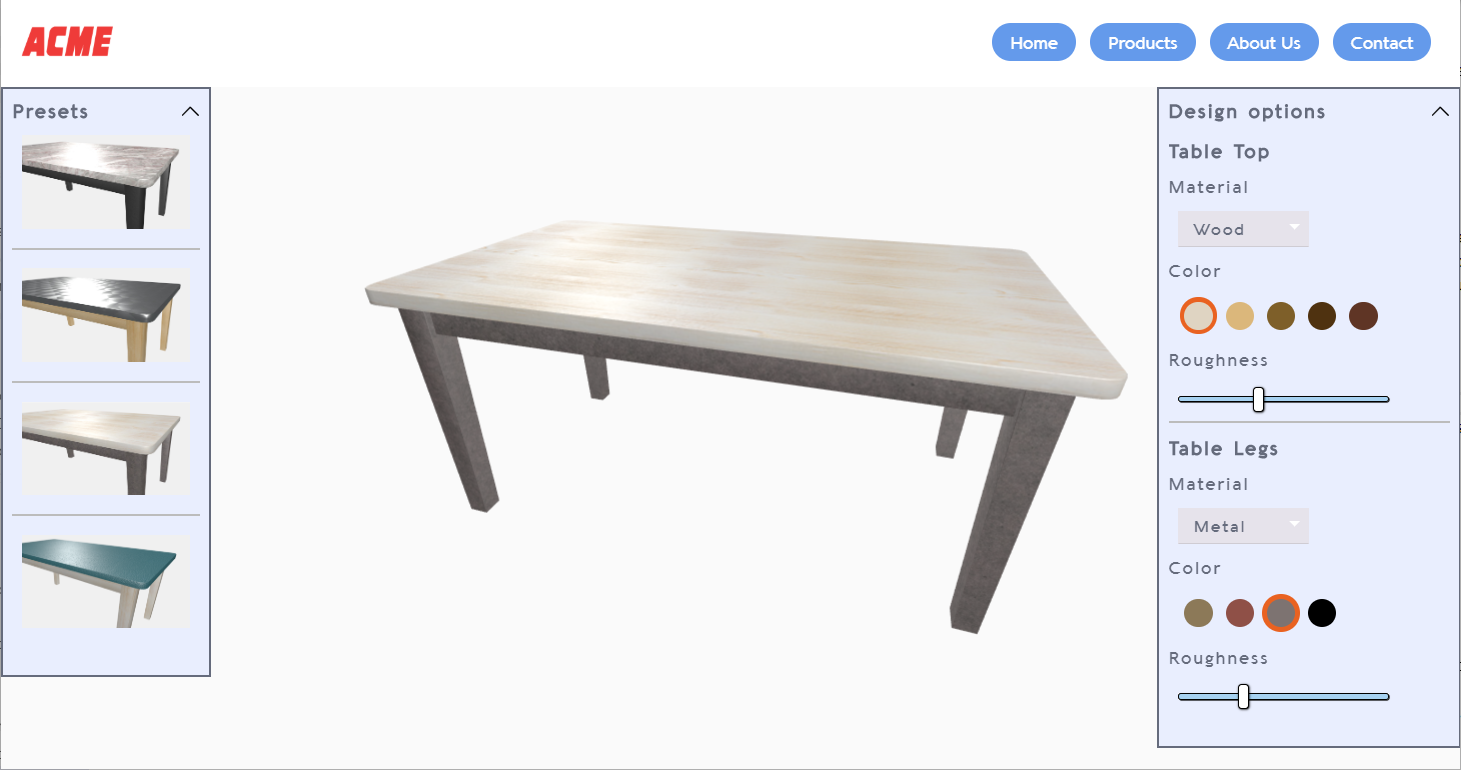
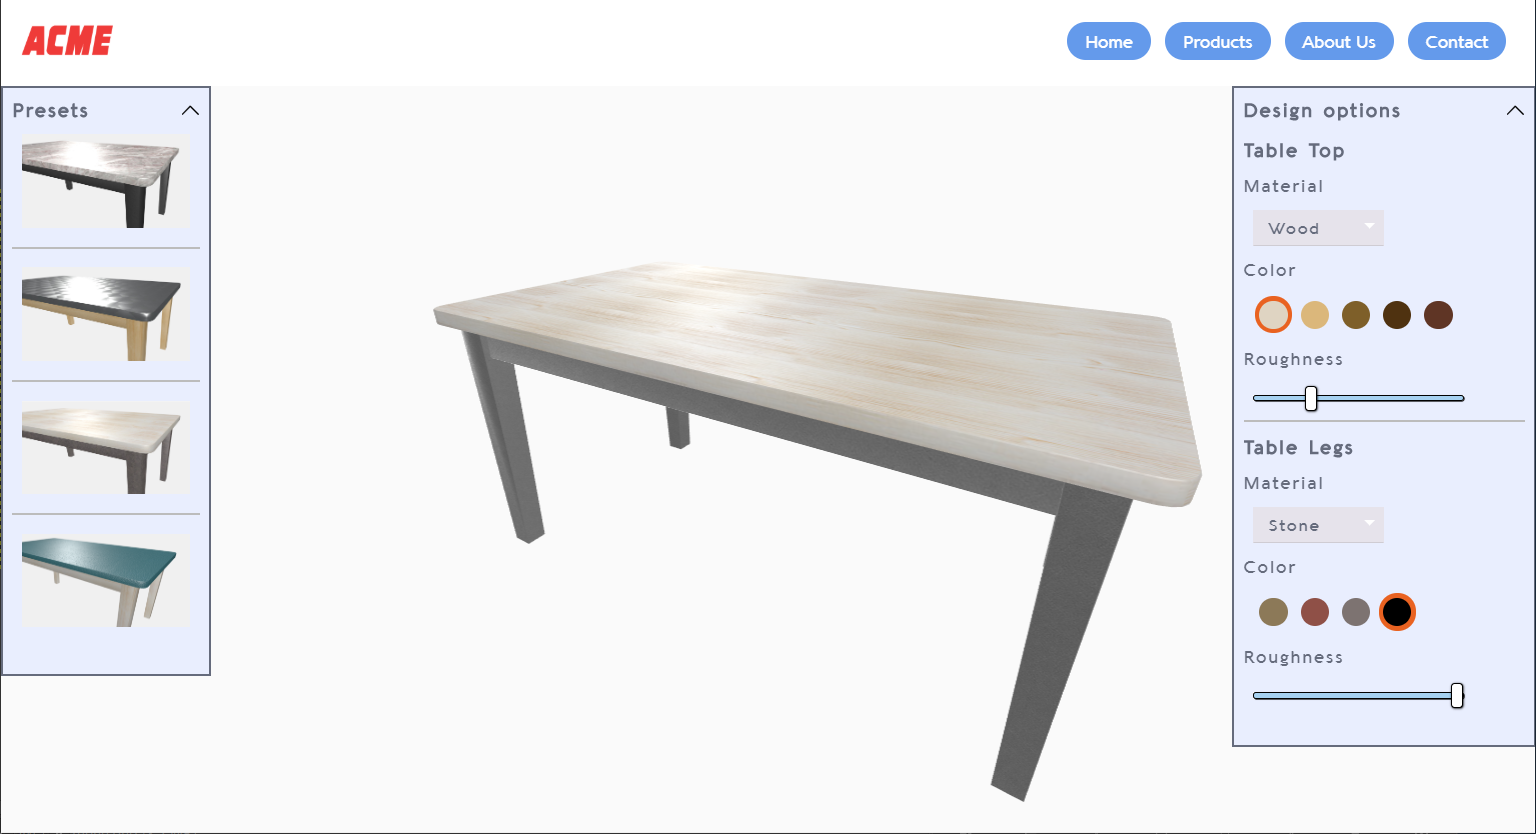
modified roughness value, screenshots updated, changed lights

diff --git a/scripts/main.js b/scripts/main.js
@@ -77,11 +77,11 @@ function createScene() {
     partID: tablePlaneID,
     partDescription: "Table Top",
     lights: lightsInSceneParameters,
-    materialsAvaiable: ["wood", "metal", "plastic", "marble", "aluminium"],
+    materialsAvaiable: ["wood", "stone", "plastic", "marble", "aluminium"],
     textureData: {
       id: "wood",
-      color: "_2",
-      normalScale: 3.45
+      color: "_1",
+      normalScale: 1.0
     },
     textureController: textureController
   }));
@@ -92,7 +92,7 @@ function createScene() {
     modelName: "legs",
     partID: tableLegsID,
     partDescription: "Table Legs",
-    materialsAvaiable: ["wood", "metal", "plastic"],
+    materialsAvaiable: ["wood", "stone", "plastic"],
     lights: lightsInSceneParameters,
     textureData: {
       id: "wood",
@@ -110,7 +110,7 @@ function createTools() {
     typeSelect: "Wood",
     roughness: {
       min: 0.0,
-      max: 4.0,
+      max: 2.5,
       step: 0.05,
       start: 0.0
     },
@@ -152,7 +152,7 @@ function createTools() {
     typeSelect: "Plastic",
     roughness: {
       min: 0.15,
-      max: 2.3,
+      max: 1.8,
       step: 0.05,
       start: 0.0
     },
@@ -196,8 +196,8 @@ function createTools() {
     ]
   },
   {
-    typeID: "metal",
-    typeSelect: "Metal",
+    typeID: "stone",
+    typeSelect: "Stone",
     roughness: {
       min: 0.0,
       max: 1.0,
@@ -278,12 +278,6 @@ function createTools() {
         iconURL: "",
         iconColor: "#979ca0"
       },
-      {
-        id: "_2",
-        alt: "yellow",
-        iconURL: "",
-        iconColor: "#958e67"
-      },
     ]
   },
   ];
@@ -331,7 +325,7 @@ function createTools() {
         // legs
         partID: tableLegsID,
         dataToApply: {
-          material: "metal",
+          material: "stone",
           color: "_4",
           roughness: 0.2
         }
@@ -373,7 +367,7 @@ function createTools() {
         // legs
         partID: tableLegsID,
         dataToApply: {
-          material: "metal",
+          material: "stone",
           color: "_3",
           roughness: 0.3
         }

diff --git a/scripts/lights.js b/scripts/lights.js
@@ -6,21 +6,21 @@ let lightsInSceneParameters = [
         red: 1.0,
         green: 1.0,
         blue: 1.0,
-        intensity: 0.75,
+        intensity: 0.6,
         position: new THREE.Vector3(7.0, 10.0, 7.0)
     },
     {
         red: 1.0,
         green: 1.0,
         blue: 1.0,
-        intensity: 0.75,
+        intensity: 0.6,
         position: new THREE.Vector3(-7.0, 10.0, -7.0)
     },
     {
         red: 1.0,
         green: 1.0,
         blue: 1.0,
-        intensity: 0.0,
+        intensity: 0.1,
         position: new THREE.Vector3(-0.0, -10.0, -0.0)
     },
 ];

diff --git a/starting.html b/starting.html
@@ -248,7 +248,7 @@
           gl_FragColor = vec4(pow( outRadiance, vec3(1.0/2.2)), 1.0);
       }
     </script>
-
+      
     <!-- templates used to create options menu -->
     <script type="text/x-tmpl" id="tmpl-part-separator">
       <div class="part-separator"></div>

diff --git a/README.md b/README.md
@@ -10,7 +10,7 @@ Forgiarini Alessandro - n° 120562
 
 Il progetto riguarda la creazione di un web visualizer per la visualizzazione e modifica di un modello a scelta.
 Il modello scelto è un tavolo suddiviso in due parti: il piano e le gambe.
-L'applicazione permette di variare le parti in base al tipo di materiale (legno, plastica, metallo, marmo, alluminio), a una selezione di colori scelti adatti ai materiali, e ad un fattore di roughness che determina la ruvidità/il rilievo della superficie.
+L'applicazione permette di variare le parti in base al tipo di materiale (legno, plastica, pietra, marmo, alluminio), a una selezione di colori scelti adatti ai materiali, e ad un fattore di roughness che determina la ruvidità/il rilievo della superficie.
 La telecamera è interamente manovrabile e consente la libera ispezione del tavolo.
 Il progetto è stato pensato per mantenere le stesse funzionalità sui dispositivi mobile.
 

diff --git a/journal.md b/journal.md
@@ -31,7 +31,7 @@ Separato il tavolo in due parti, aggiunto un pulsante per nascondere il menu. Or
 =============
 Sistemati alcuni problemi di aggiornamento del menu al primo start.
 
-Aggiunte le texture per il metallo
+Aggiunte le texture per la pietra
 
 27.05.2019
 =============
